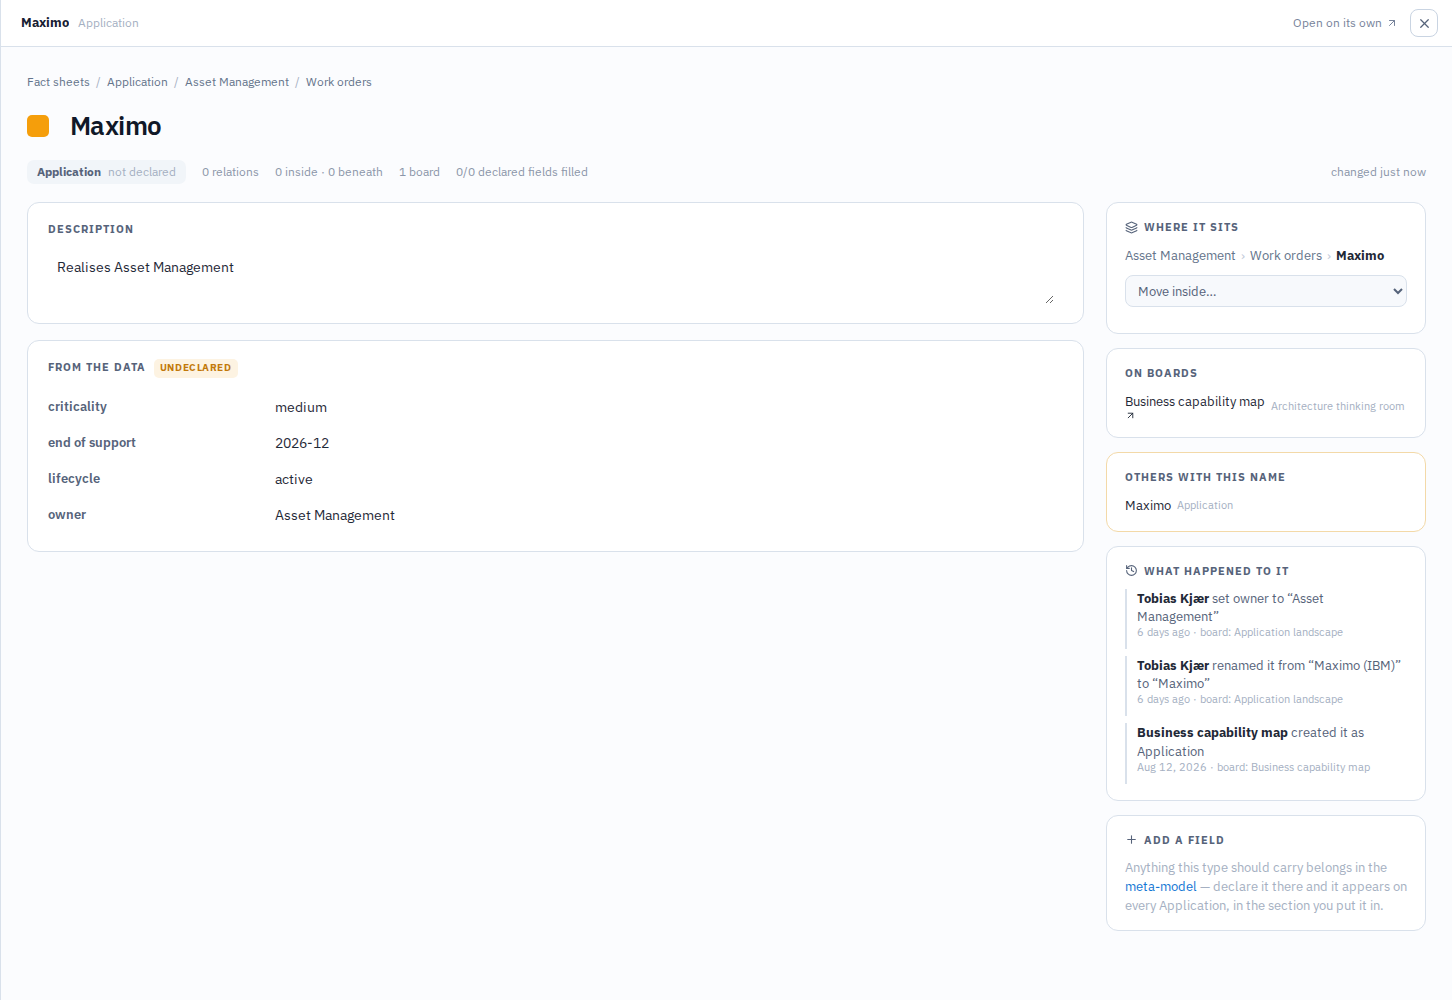
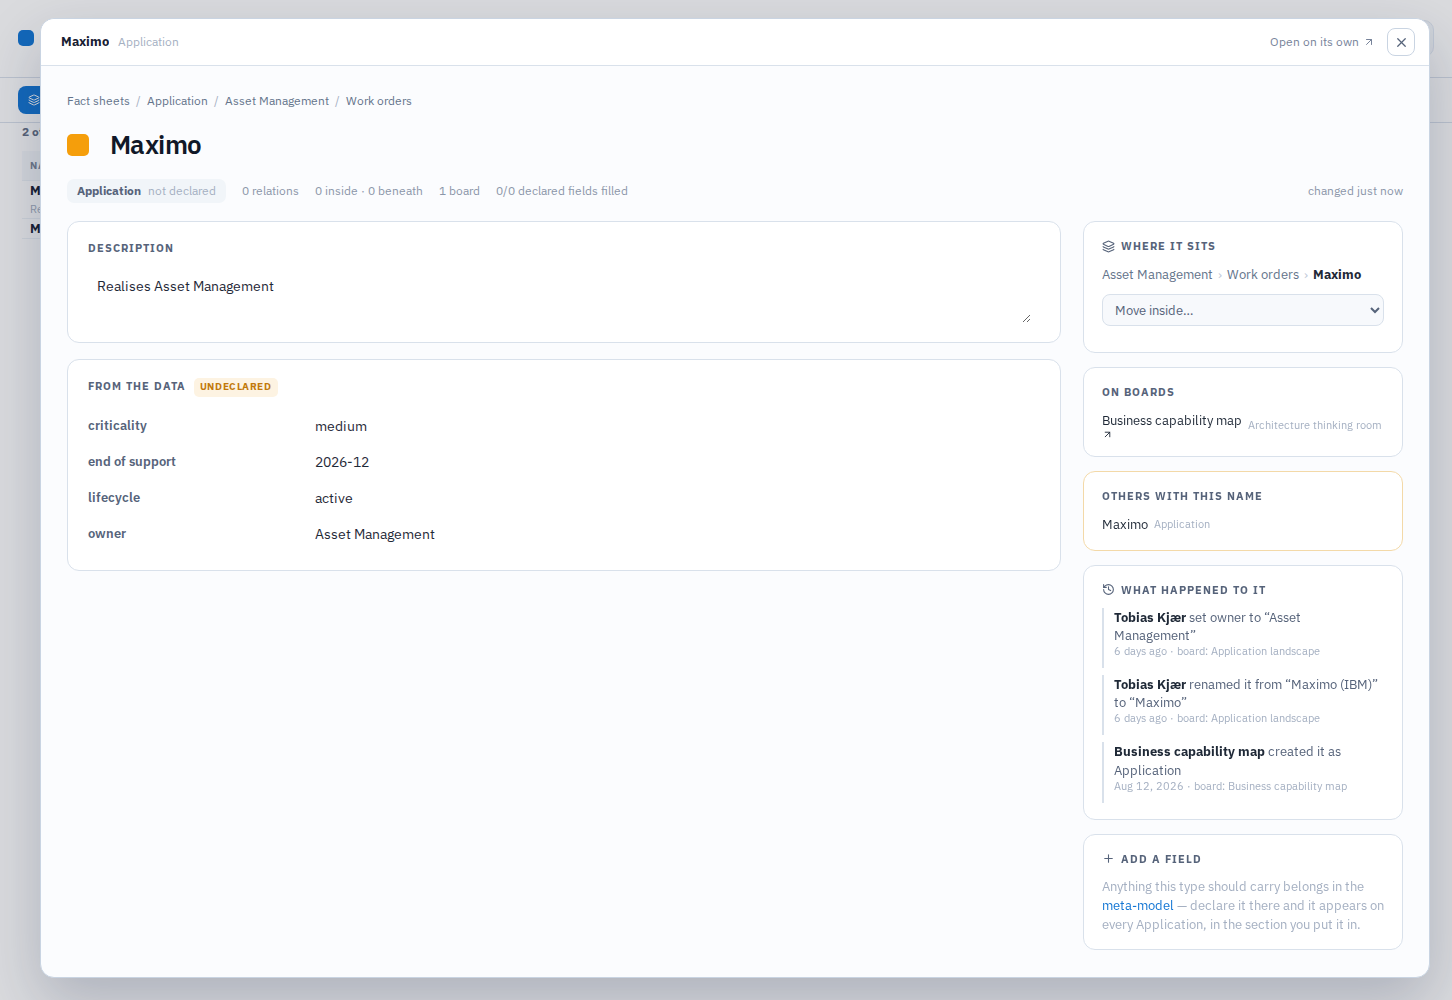
Rev 116: the list scrolls, and the window lets you see what is behind it
Two things the product owner found in rev 115.

The repository's own list could not be scrolled. It is the third row of a
full-height grid, and a flex column in a grid row is sized by its content
rather than by its track unless it says min-height: 0 — so with 478 objects,
four hundred of them were below the fold with no way down. The same omission
as the fact sheet's column, in the page beside it.

And the window covered the whole content area, which makes it a page with a
close button. It now stands inside that area over a light scrim, widest on the
left where the list is, so what you opened from is visible around its edges.
That is the difference between a window and a navigation, and it has to be
visible or it is not a claim anybody can check. The margin becomes a fourth
way out — a click beside the window closes it, on mousedown that both starts
and ends there, so a drag that began inside the sheet while selecting text
does not throw the edit away.

The walk now checks all of it: that the list reaches its last row, that the
sheet covers nothing of the menu and does not fill the area it opens over,
that clicking beside it closes it, and that the search that found the object
is still in the box afterwards.

Brief §5.77, one decision row, the in-product Fact sheet page and its
screenshot.

Claude-Session: https://claude.ai/code/session_017nGWzrLHGbjQq95faoMFxY

Changed region(s): [[0.0, 0.0, 1.0, 1.0]]

diff --git a/apps/web/src/app/globals.css b/apps/web/src/app/globals.css
@@ -1291,23 +1291,37 @@ fieldset.agent-field { border: 0; margin: 0; padding: 0; }
 
 /* The sheet opened over whatever you were doing. It sits in the shell's second column, on top of
    the page rather than beside it: everything right of the menu, nothing of the menu. */
-.fs-window {
-  background: #fbfcfe;
-  border-left: 1px solid var(--line);
+/* The area the sheet opens over: everything right of the menu, and nothing of it. The page
+   underneath stays visible through the scrim and around the window's edges, so it is plain that
+   you are standing on top of where you were rather than somewhere else. */
+.fs-overlay {
+  background: rgba(23, 32, 51, .16);
   bottom: 0;
-  box-shadow: -18px 0 42px rgba(19, 33, 68, .10);
   display: flex;
-  flex-direction: column;
   left: var(--rail);
   position: absolute;
   right: 0;
   top: 0;
   z-index: 40;
 }
+.fs-window {
+  background: #fbfcfe;
+  border: 1px solid var(--line-strong);
+  border-radius: 14px;
+  box-shadow: 0 24px 60px rgba(19, 33, 68, .22);
+  display: flex;
+  flex: 1;
+  flex-direction: column;
+  /* Wider on the left, so what you opened from is visible behind rather than merely implied. */
+  margin: 18px 22px 22px 40px;
+  min-height: 0;
+  overflow: hidden;
+}
 .fs-window-bar {
   align-items: center;
   background: #fff;
   border-bottom: 1px solid var(--line);
+  border-radius: 13px 13px 0 0;
   display: flex;
   flex: 0 0 auto;
   gap: 12px;
@@ -1414,7 +1428,11 @@ fieldset.agent-field { border: 0; margin: 0; padding: 0; }
 .live-state button { background: none; border: 0; color: var(--blue); cursor: pointer; font-size: 11px; margin-left: 5px; padding: 0; text-decoration: underline; }
 
 /* ---- the repository: everything, on one shelf (§5.76) -------------------------------------- */
-.repository-body { display: flex; flex-direction: column; gap: 10px; padding: 0 22px 26px; }
+/* The third row of the .inventory grid, which is `1fr` of a full-height shell. Without
+   min-height:0 a flex column in a grid row is sized by its content, not by its track, so the
+   table below it grew past the viewport and the last four hundred rows were unreachable. */
+.repository-body { display: flex; flex-direction: column; gap: 10px; min-height: 0; overflow: hidden; padding: 0 22px 26px; }
+.repository-body .inventory-table-wrap { flex: 1 1 auto; }
 .repository-kind { align-items: center; color: #56637a; display: inline-flex; gap: 6px; white-space: nowrap; }
 .repository-kind i { border-radius: 3px; height: 9px; width: 9px; }
 .repository-said { color: #a5b0c2; display: block; font-size: 11px; font-weight: 400; margin-top: 2px; }

diff --git a/apps/web/src/lib/docs/pages/model.ts b/apps/web/src/lib/docs/pages/model.ts
@@ -105,7 +105,7 @@ export const FACT_SHEET: DocPage = {
     { kind: "prose", text: "An object is a thing, not an annotation on a list. **/w/…/fs/…** is its address — the name, the description, every attribute in the section its type puts it in, what it is connected to, where it sits, which boards it is on, and everything that has ever happened to it. It is a link you can send." },
     { kind: "shot", src: "fact-sheet", alt: "An application's fact sheet open in a window over the repository, with its attributes in sections and its history beside them", caption: "Opened from a list, the sheet is a window over it: everything right of the menu, nothing of the menu." },
     { kind: "heading", text: "Why it is a window and not a page", id: "window" },
-    { kind: "prose", text: "Click a row and the sheet opens **over** the list you were reading, filling the area right of the navigation. The list underneath keeps its search, its facets and its scroll position, so checking one application's owner does not cost you the three filters it took to find it. The address in the bar still changes — the object is linkable and refreshable — and there are three ways out, all cheap: the **close** button, **Escape**, and the browser's back button, which are the same gesture here." },
+    { kind: "prose", text: "Click a row and the sheet opens **over** the list you were reading, in the area right of the navigation. It stands inside that area rather than filling it, so the list is visible around its edges — it is still there, and you are on top of it rather than somewhere else. The list keeps its search, its facets and its scroll position, so checking one application's owner does not cost you the three filters it took to find it. The address in the bar still changes — the object is linkable and refreshable — and there are four ways out, all cheap: the **close** button, **Escape**, a click on the space beside the window, and the browser's back button, which are the same gesture here." },
     { kind: "note", tone: "tip", text: "Open the link cold — from a mail, a bookmark, a new tab — and there is nothing behind it to cover, so it renders as a whole page instead. Same sheet, same edits. **Open on its own** in the window's bar does that deliberately." },
     { kind: "heading", text: "There is no save button", id: "editing" },
     { kind: "prose", text: "The value on the page *is* the field. Click it, change it, look away — it is written. The canvas has worked this way since the beginning and nobody has ever asked where its save button is." },

diff --git a/apps/web/src/components/factsheet/SheetWindow.tsx b/apps/web/src/components/factsheet/SheetWindow.tsx
@@ -50,6 +50,16 @@ export function SheetWindow({
   }, [router]);
 
   return (
+    <div
+      className="fs-overlay"
+      data-sheet-overlay
+      /*
+       * The margin around the window is a way out too. Only a click that starts *and* ends on it
+       * counts: a drag that began inside the sheet — selecting a description to retype it — ends
+       * wherever the pointer went, and closing on that would throw the edit away.
+       */
+      onMouseDown={(e) => { if (e.target === e.currentTarget) router.back(); }}
+    >
     <section className="fs-window" data-sheet-window={entityId} aria-label={`${name} — ${kind || "object"}`}>
       <header className="fs-window-bar">
         <span className="fs-window-name">
@@ -65,5 +75,6 @@ export function SheetWindow({
       </header>
       <div className="fs-window-scroll">{children}</div>
     </section>
+    </div>
   );
 }

diff --git a/docs/BRIEF.md b/docs/BRIEF.md
@@ -3470,18 +3470,25 @@ has happened to it. The drawer stays, on the canvas only.
 throws the list away: three filters deep in the repository, you open one application to check who
 owns it and you come back to an unfiltered list at the top. So the address is *intercepted*
 (`@sheet/(.)fs/[entityId]`, a parallel slot on the workspace layout): clicking a row opens the
-sheet over the page you were on, filling everything right of the menu and nothing of it. The menu
-stays reachable, because the next place you are going is usually somewhere else in the product
-rather than back where you came from. The address still changes, so the thing is still linkable
-and still refreshable, and the ways out are the ones people already try — the ×, Escape, and the
-back button, which the interception makes the same gesture. A **cold** load of the same address
-renders the standalone page instead: there is nothing behind it to overlay, and a link in a mail
-has to open something whole.
+sheet over the page you were on, in the area right of the menu and nothing of it. The menu stays
+reachable, because the next place you are going is usually somewhere else in the product rather
+than back where you came from. The address still changes, so the thing is still linkable and still
+refreshable, and the ways out are the ones people already try — the ×, Escape, the space around
+it, and the back button, which the interception makes the same gesture. A **cold** load of the
+same address renders the standalone page instead: there is nothing behind it to overlay, and a
+link in a mail has to open something whole.
+
+The window stands *inside* that area rather than filling it, over a light scrim, so the page it
+was opened from is visible around its edges — widest on the left, where the list is. That is the
+difference between a window and a navigation, and it has to be visible or it is not a claim
+anybody can check: you are standing on top of where you were, not somewhere else.
 
 Escape belongs to the field it is pressed in: inside an input it puts back the value before the
 edit (below), and only outside one does it close the window. Both the window and the standalone
 page scroll in their own column — the shell is a full-height grid, and a column that does not say
-it scrolls simply makes the bottom of a long sheet unreachable.
+it scrolls simply makes the bottom of a long sheet unreachable. The same omission clipped the
+repository's own list (§5.76): 478 objects with four hundred of them below the fold and no way
+down.
 
 **No save button, and no edit mode.** The value on the page *is* the field: click it, change it,
 look away, it is written. The canvas has worked this way since rev 1 — a card's title is a live
@@ -4656,6 +4663,7 @@ migrations. Steps in `docs/DEPLOY.md`.
 | 2026-09-11 | The drawer stays, but only on the canvas. | Leaving a board to read an object costs you your place; leaving a list does not. One surface where it earns its keep, and a link to the page for everything it cannot show. |
 | 2026-09-11 | A fact sheet opens as a window over the page you were on, not as a navigation away from it. | A page throws the list away — the filters, the search, the scroll — and the back button has to rebuild it. Intercepting the route keeps the list mounted underneath while the address still changes, so the sheet is linkable *and* free to leave. |
 | 2026-09-11 | The window covers everything right of the menu and nothing of it. | Where people go after reading an object is usually somewhere else in the product, not back where they came from. A modal that hides the rail makes the common case two clicks and adds a dismissal nobody asked for. |
+| 2026-09-11 | The window stands inside the content area over a scrim, rather than filling it edge to edge. | A window that covers everything is a page with a close button. Seeing the list you came from around its edges is what tells you the list is still there — and the margin becomes a fourth way out, which is the gesture people try first. |
 | 2026-09-11 | The window is positioned against the shell, not placed in its grid. | A grid item with an explicit cell is laid out before the auto-placed ones, so a window in column 2 pushed the page itself onto a second row — the first cut of this shipped a sidebar cut off halfway down. |
 
 ## 8. Open questions for the product owner
@@ -4679,11 +4687,13 @@ migrations. Steps in `docs/DEPLOY.md`.
   unreachable. And opening an object was a navigation — three filters deep in the repository, one
   click to check an owner and the list was gone. The address is now intercepted by a parallel slot
   on the workspace layout (`@sheet/(.)fs/[entityId]`), so a click opens the sheet in a window over
-  the page you were on, filling everything right of the menu and nothing of it; the list underneath
-  keeps its scroll and its filters, the address still changes, and the ×, Escape and the back
-  button are the same gesture. Escape inside a field still belongs to the field. A cold load of the
-  same address renders the standalone page, which now scrolls in its own column. Brief §5.77, three
-  decision rows.
+  the page you were on, in the area right of the menu and nothing of it; the window stands inside
+  that area over a light scrim, so the list it came from shows around its edges and the margin is
+  itself a way out. The list underneath keeps its scroll and its filters, the address still
+  changes, and the ×, Escape, the margin and the back button are the same gesture. Escape inside a
+  field still belongs to the field. A cold load of the same address renders the standalone page,
+  which now scrolls in its own column — as does the repository's own list, which had the same
+  omission and four hundred unreachable rows. Brief §5.77, four decision rows.
 
 - **2026-09-11 — Rev 114: one object, one page.** Every object now has an address —
   `/w/[slug]/fs/[id]` — with its attributes in the sections the type declares, what it is
